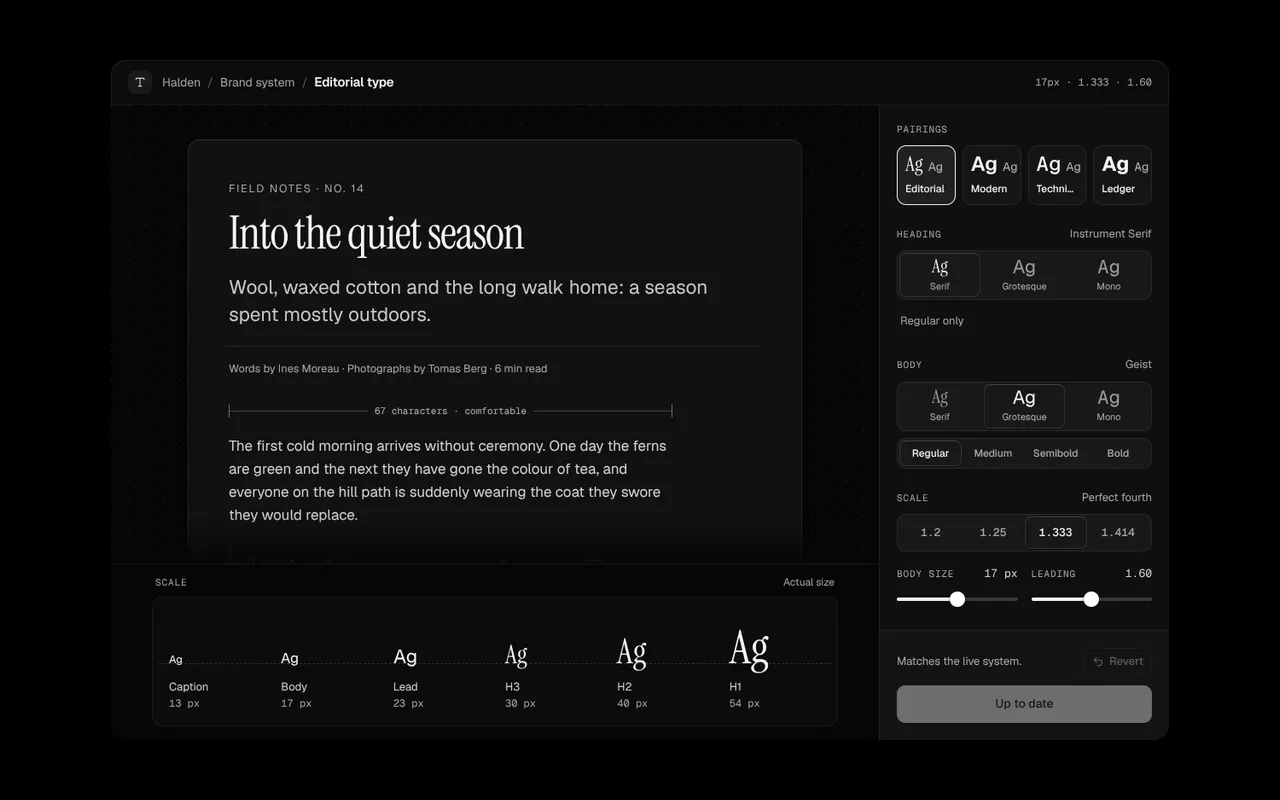
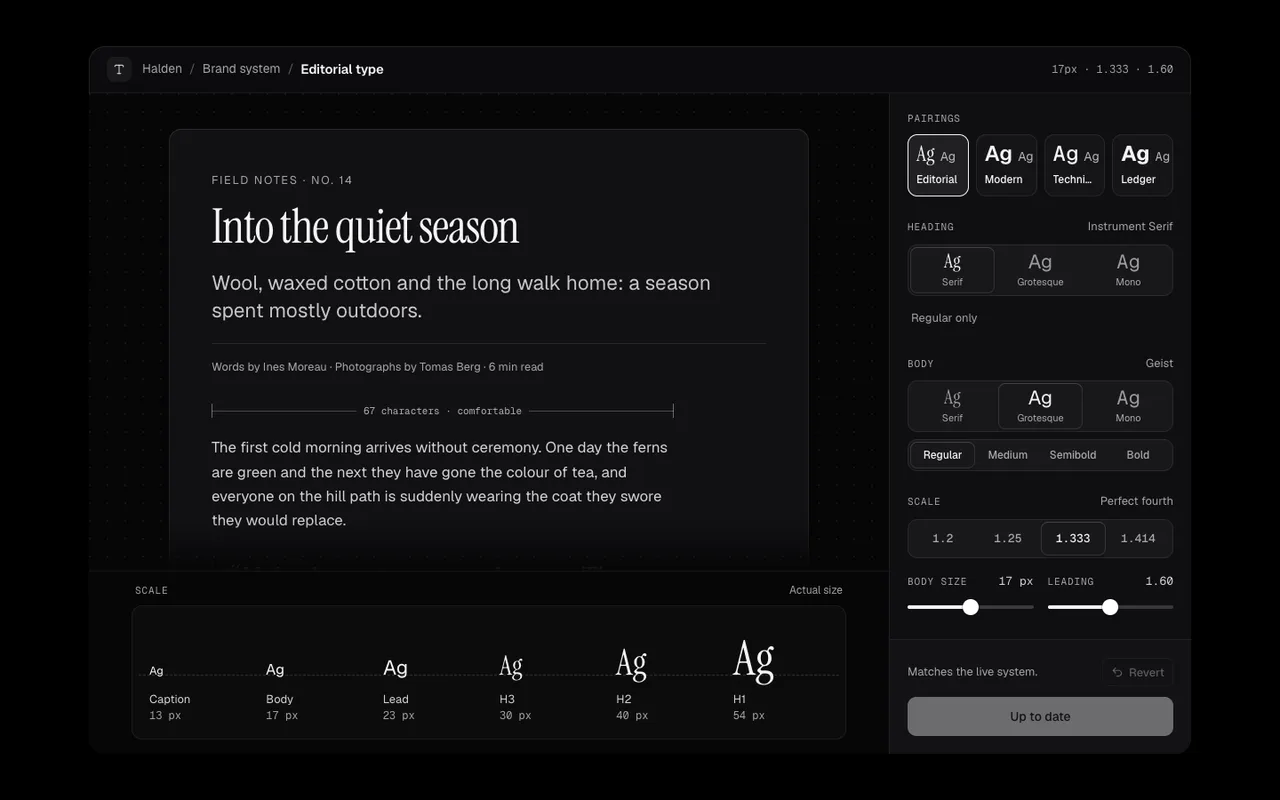
Cover font pairing persistence and fit its complete demo

diff --git a/docs/review/HANDOFF_TASKS.md b/docs/review/HANDOFF_TASKS.md
@@ -271,6 +271,8 @@ and how to know it's done. Pick any of them up independently. Background, briefs
 
 - Task 8: the Version History, Capacity Planner, Query Builder and Waterfall Bridge batch passes the Worker dry run. The router is 2,655,633 bytes, runtime 57,141,392 bytes and compressed source maps 4,761,949 bytes, with all original guards retained. Strict registry, TypeScript and all 1,063 unit tests pass. The three optional package diagnostics remain, and their runtime files are verified. No deployment was performed.
 
+- Task 5: Font Pairing now covers keyboard pair/scale edits, exact CSS snapshots, failure/retry, pending saves, newer drafts, independent callback payloads and empty catalogues. Missing writers cannot acknowledge persistence, and the desktop specimen is a labelled keyboard-scrollable region. Its 27-mount source review, 16 state/default accessibility audits, six widths, entrance/state captures, Next regression, four controls, official audit and metadata replay pass. A retained 10.5px framing failure is resolved by matching 900px stage and preview heights; the full replay and refreshed poster fit. Strict registry, TypeScript, isolated Pro types and all 1,063 unit tests pass. 66 components remain without dedicated coverage; its film remains in task 1.
+
 ## Ground rules (read first)
 
 - Two repos. Public: `richawo/Design-components-for-AI-agents` (this one). Pro: `richawo/Design-for-AI`, private, cloned
@@ -395,14 +397,14 @@ Its log is `test-results/handoff-next/browser-suite-green.log`.
 
 ## 5. Write browser probes for components that have none
 
-67 finished components still have no dedicated browser regression probe. For each, read its source and
+66 finished components still have no dedicated browser regression probe. For each, read its source and
 `meta.json`, then add a case to the appropriate `tests/browser/*.mjs` suite (or a new probe registered in
 `scripts/test-components.mjs`) covering: the signature interaction, keyboard paths, failed-then-successful callbacks
 with drafts kept (where it has async callbacks), and empty or invalid data. Use `tests/browser/pro-50/hr-org-explorer.mjs`
 as the model for style and depth. Mobile components render through React Native web (`scripts/lib/component-fixture.mjs` aliases it);
 see `tests/browser/mobile-accessibility-probe.mjs` for a native example.
 
-`editor-font-pairing`, `editor-keyframe-track`, `editor-layer-stack`
+`editor-keyframe-track`, `editor-layer-stack`
 `editor-spacing-inspector`, `editor-storyboard-strip`, `editor-version-restore`, `three-exploded-assembly`
 `three-material-inspector`, `agents-budget-guard`, `agents-dependency-board`, `agents-run-replay`
 `ai-answer-compare`, `ai-context-budget`, `ai-structured-output`, `auth-recovery-codes`, `devtools-icon-workbench`

diff --git a/docs/review/STATUS.md b/docs/review/STATUS.md
@@ -71,7 +71,7 @@ See [the handoff checkpoint](HANDOFF_TASKS.md#8-final-release-checks) for revisi
 | `editor-branch-compare` | current | current | Next-backed merge choices, scrubbing, exact output, retry, pending and replaced-revision regression; twenty-eight theme/state accessibility audits and four controls pass. Reviewed 5.5s film and settled poster current. |
 | `editor-color-token-studio` | current | current | Next-backed pointer/keyboard, palette failure/retry, clipboard, invalid ids, controlled read-only and stale-reply regression passes; eight theme/accent accessibility states, four controls and 320/390/768/1440 geometry pass. Reviewed neutral 5.2s film shows the AA repair and settled Applied receipt; source/delivery/moving-frame guards pass. |
 | `editor-export-preset` | current | current | Next-backed pointer/keyboard, exact export, failure/retry, pending locks, empty/invalid options and retired-layer regression pass. Both-theme accessibility, six widths, entrance/state captures, five controls, official audit and refreshed poster pass; reviewed 5.3s reshape/comparison/export film and matching poster are current. |
-| `editor-font-pairing` | new | current |  |
+| `editor-font-pairing` | new | current | Next-backed keyboard/exact-CSS/retry/pending/newer-draft/mutation/empty-catalogue regression passes. Missing writers stay unavailable, and the labelled specimen supports keyboard scrolling. The 27-mount source review, 16 state/default accessibility audits, six widths, entrance/state captures, four controls, official audit and metadata replay pass. The initial 10.5px clipping failure is retained; matching 900px stage/preview heights, complete framing and refreshed poster pass. Strict registry, TypeScript, isolated Pro types and all 1,063 unit tests pass. |
 | `editor-keyframe-track` | new | current |  |
 | `editor-layer-stack` | new | current |  |
 | `editor-spacing-inspector` | new | current |  |
